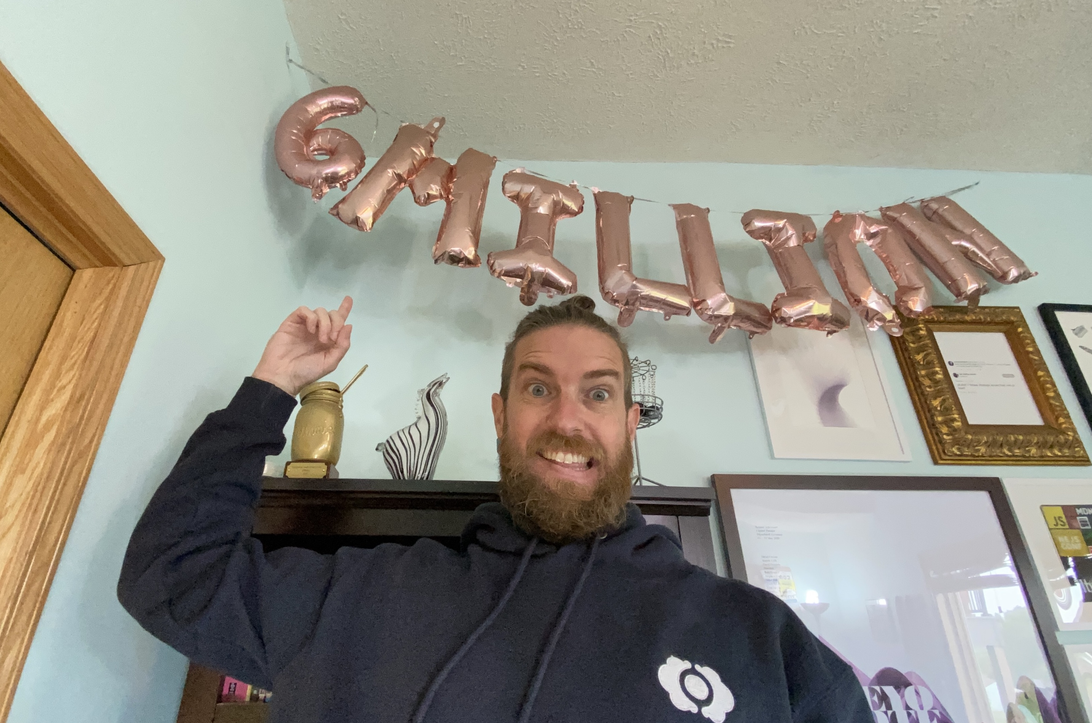
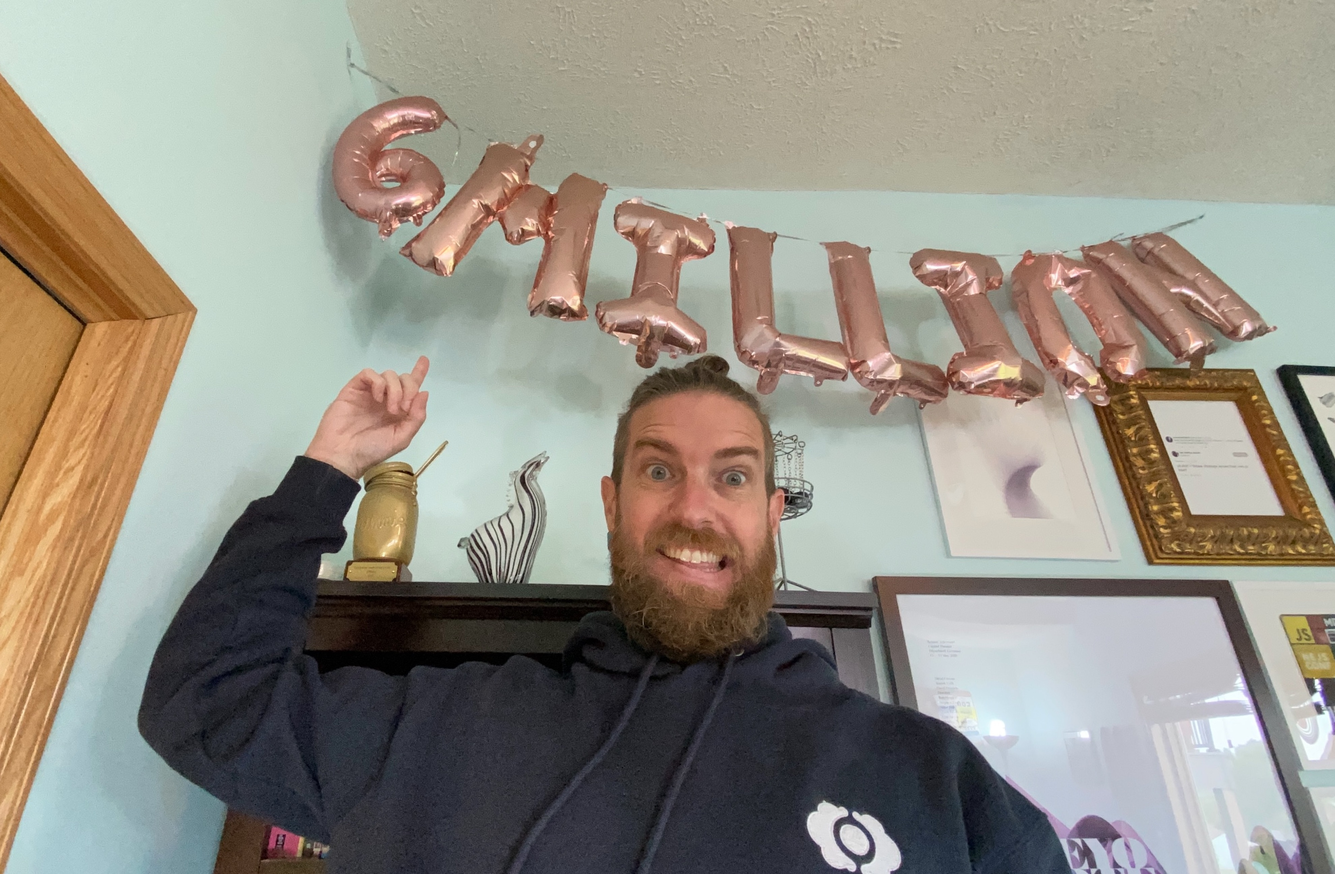
7 million downloads

diff --git a/src/_includes/index.css b/src/_includes/index.css
@@ -709,14 +709,3 @@ filter-container:defined form {
 .mb-8 {
 	margin-bottom: 4em;
 }
-
-/* Ukraine */
-@supports (filter: drop-shadow(0px 0px 0px #000)) {
-	.elv-default .elv-hero {
-		background: rgb(9,91,183);
-		background: linear-gradient(180deg, rgba(9,91,183,1) 0%, rgba(9,91,183,1) 50%, rgba(254,214,64,1) 50%, rgba(254,214,64,1) 100%);
-	}
-	.elv-default .elv-hero svg {
-		filter: drop-shadow(0px 0px 25px #304d75)
-	}
-}

diff --git a/.eleventy.js b/.eleventy.js
@@ -349,6 +349,10 @@ ${text.trim()}
 	eleventyConfig.addPassthroughCopy("src/blog/pretty-atom-feed-v3.xsl");
 	eleventyConfig.addPassthroughCopy("src/favicon.ico");
 
+	eleventyConfig.addFilter("matchbannerlink", (links, text) => {
+		return links.find(entry => entry.label.indexOf(text) !== -1);
+	});
+
 	eleventyConfig.addFilter("lighthouseGoodDataCheck", function(data) {
 		return !!data && !("error" in data);
 	});

diff --git a/src/_data/bannerlinks.js b/src/_data/bannerlinks.js
@@ -20,7 +20,7 @@ module.exports = [
     url: "https://www.standagainsthatred.org/"
   },
   {
-    label: "Stand with Ukraine 🇺🇦",
+    label: "🇺🇦🇺🇦🇺🇦 Stand with Ukraine 🇺🇦🇺🇦🇺🇦",
     url: "https://war.ukraine.ua/"
   }
 ];

diff --git a/src/blog/2023-10-23-seven-million.md b/src/blog/2023-10-23-seven-million.md
@@ -1,0 +1,25 @@
+---
+newstitle: Seven Million npm Downloads!
+eleventyNavigation:
+  parent: Blog
+homePageHighlight: true
+---
+On October 18, 2023 **Eleventy passed [seven million lifetime downloads](https://npm-stat.com/charts.html?package=%4011ty%2Feleventy&from=2018-01-01&to=2023-10-18)**!
+
+_(This number is limited to Eleventy core and doesn’t count our ecosystem of utilities and plugins.)_
+
+{% image "./src/blog/sevenmilgraph.png", "A line chart showing Eleventy’s downloads per year", [350, 700] %}
+
+{% image "./src/blog/sevenmil.jpg", "Zach pointing to the new balloons in his office that say 7 Million", [350, 700] %}
+
+
+Thank you for the support!!
+
+## Previous arbitrary milestones
+
+* [Six Million npm Downloads!](/blog/six-million/)
+* [Five Million npm Downloads!](/blog/five-million/)
+* [Four Million npm Downloads!](/blog/four-million/)
+* [Three Million npm Downloads!](/blog/three-million/)
+* [Two Million npm Downloads!](/blog/2million/)
+* [Twitter: One Million npm Downloads!]({{ "https://twitter.com/eleven_ty/status/1338210611797389312" | canonicalTwitterUrl }})
